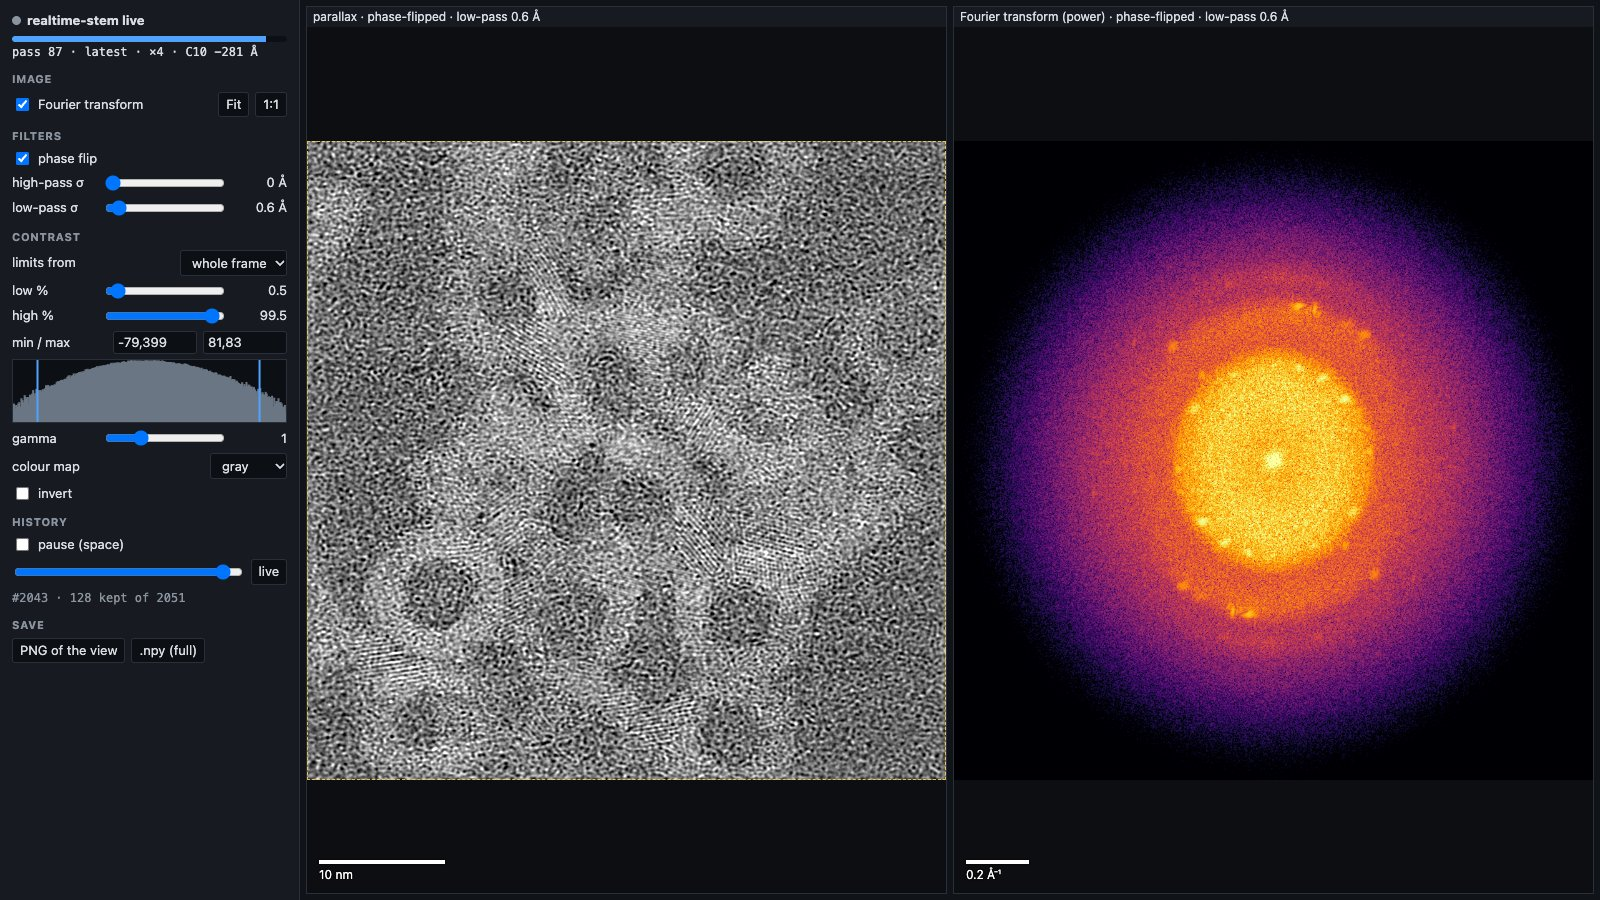
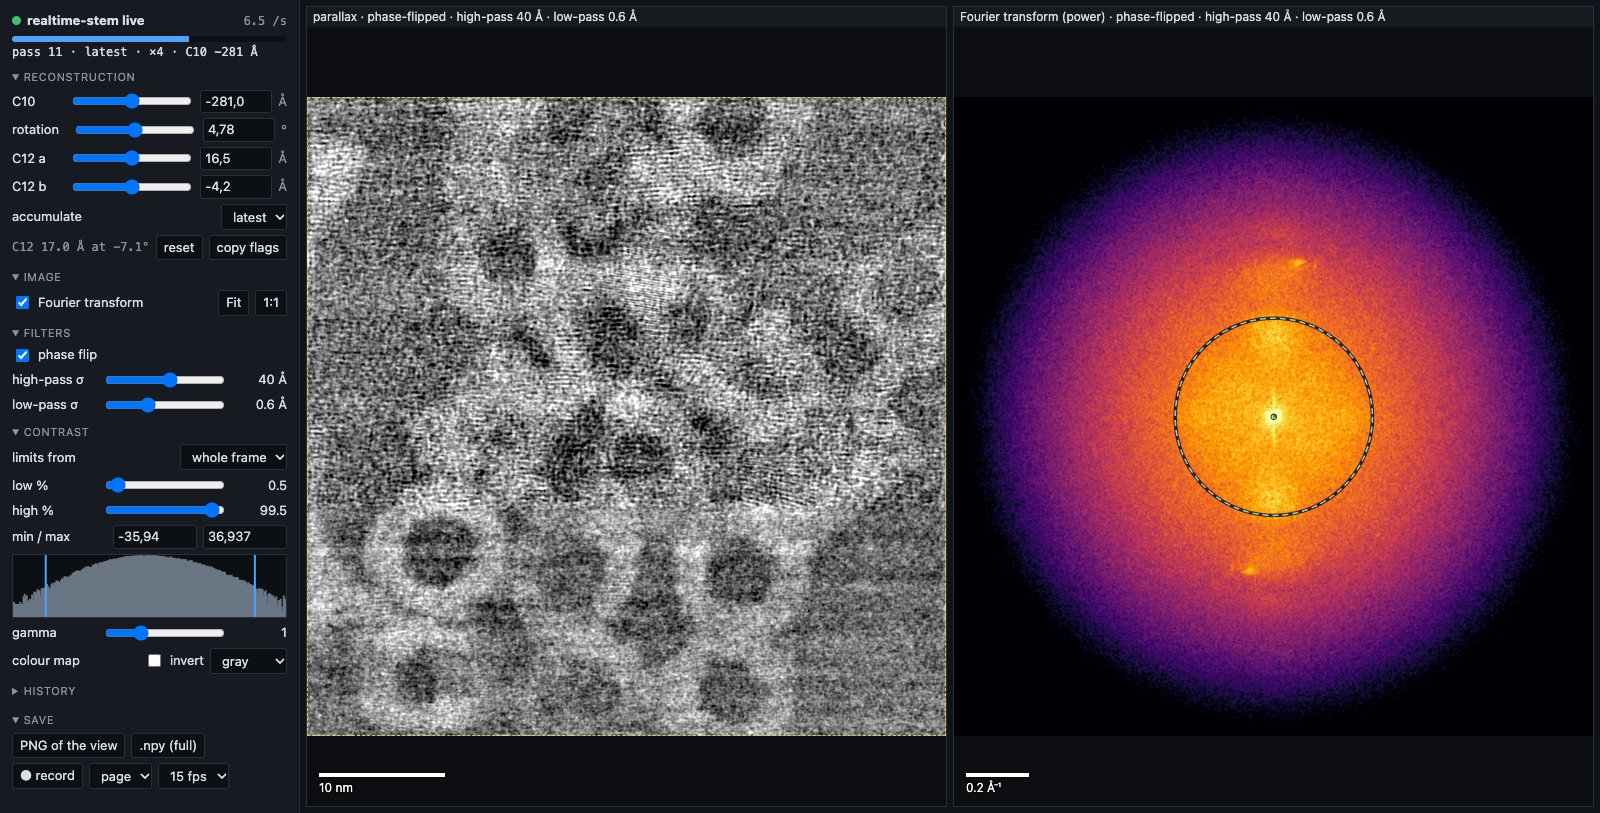
docs: the viewer screenshot with the Reconstruction section, cutoff circles and recording

diff --git a/docs/WORKFLOWS.md b/docs/WORKFLOWS.md
@@ -18,7 +18,7 @@ flags.
 
 ## Watch in a browser
 
-![The browser viewer: the parallax image, phase-flipped and low-passed, and its Fourier transform](images/web_viewer.jpg)
+![The browser viewer served by run.py --viewer-port: the Reconstruction section's sliders, the parallax image phase-flipped, high- and low-passed, and its Fourier transform with the filters' cutoff circles](images/web_viewer.jpg)
 
 Start the viewer, subscribed to the pipeline's live stream (`run.py --live-endpoint …`), and
 open http://127.0.0.1:8050:
